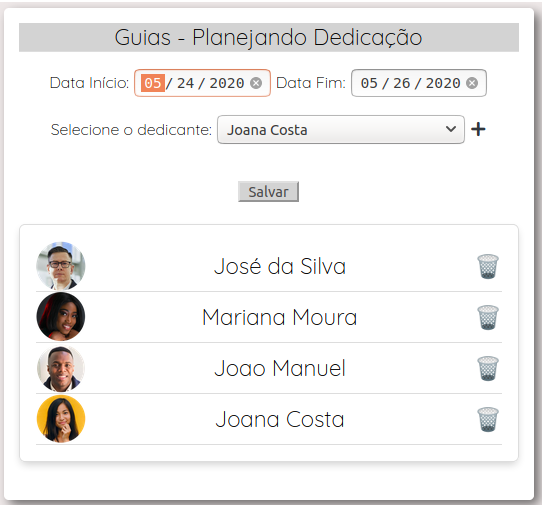
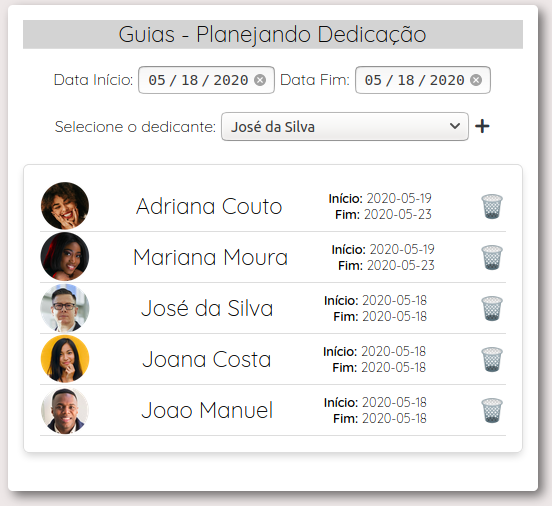
create write file method

diff --git a/public/planejando.js b/public/planejando.js
@@ -12,16 +12,18 @@ btnAdd.addEventListener('click',addDedicantes)
 
 
 function addDedicantes(){
+    /*
     const dadosDedicante = selDedicantes.value.split('|')
-
     const idDedicante = dadosDedicante[0]
     const nomeDedicante = dadosDedicante[1]
     const fotoDedicante = dadosDedicante[2]
     const regiaoDedicante = dadosDedicante[3]
+    */
 
+    const [codigo, nome, foto, regiao] = selDedicantes.value.split('|')
 
     const existInList = listaDedicantes.filter((item) => {
-        if (item.codigo == idDedicante) {
+        if (item.codigo == codigo) {
             return item
         }
     })
@@ -34,45 +36,71 @@ function addDedicantes(){
     }
     
     //fabricar dedicante
-    const dedicante = fabricarDedicante(idDedicante, nomeDedicante,fotoDedicante,txtStartDate.value,txtEndDate.value,regiaoDedicante)
+    let dataInicio = txtStartDate.value
+    let dataFim = txtEndDate.value
+    
+    //Gravando no arquivo via API
+    apiAddPlanning({codigo,nome,foto,dataInicio,dataFim,regiao})
 
+
+}
+    
+function addPlanning({codigo, nome, foto, dataInicio, dataFim, regiao}){
+    const dedicante = fabricarDedicante(codigo, nome,foto,dataInicio,dataFim,regiao)
+
+    //inserindo no Array de Dedicantes
     listaDedicantes.push(dedicante)
-
     console.log(listaDedicantes)
 
+ 
+
+    //Inserindo na página HTML
     const li = document.createElement('li')
     const imgFoto = new Image(50,50)
     const a = document.createElement('a')
     const span = document.createElement('span')
+    const divParent = document.createElement('div')
+    const divDates = document.createElement('div')
 
-    imgFoto.src = fotoDedicante
-    a.innerHTML = nomeDedicante
+    imgFoto.src = foto
+    a.innerHTML = nome
     span.innerHTML = `\u{1F5D1}`
-    span.id = idDedicante
-    
-    //span.addEventListener('click',deleteDedicante(10))
+    span.id = codigo
 
+    divDates.style = 'font-size: 0.8rem;text-align: right'
+    divDates.innerHTML = `<strong>Início:</strong> ${dataInicio} <br>`
+    divDates.innerHTML += `<strong>Fim:</strong> ${dataFim}`
+
+    divParent.appendChild(divDates) 
+    
     span.onclick = () => deleteDedicante(span)
 
     li.append(imgFoto)
     li.append(a)
+    li.append(divParent)
     li.append(span)
 
     ulGuias.appendChild(li)
 
-
-
-
 }
 
-async function loadAPI(){
+async function loadAPISelect(){
     const res = await fetch('http://localhost:5000').then((content) => content.json())
 
     res.guias.map((item)=>
         addItemInSelect(item))
 }
 
-loadAPI()
+loadAPISelect()
+
+async function loadAPIPlanning() {
+    const res = await fetch('http://localhost:3800').then((content) => content.json())
+
+    res.agendamentos.map((item) =>
+        addPlanning(item))
+}
+
+loadAPIPlanning()
 
 
 //inserir as pessoas no select
@@ -100,10 +128,26 @@ function deleteDedicante(element) {
     
     if(confirm('Você tem certeza que deseja excluir o dedicante?')){
         element.parentNode.remove()
+        
+        let codigo = element.id
+
+        apiDelPlanning({codigo})
 
         listaDedicantes = listaDedicantes.filter((item) => {
             if(!(item.codigo == element.id)) return item
         })
     }
         
+}
+
+async function apiAddPlanning({codigo, nome, foto, dataInicio, dataFim, regiao}){
+    const urlApi = new URL('http://localhost:3800')
+    urlApi.search = new URLSearchParams({codigo, nome, foto, dataInicio, dataFim, regiao }).toString()
+    await fetch(urlApi)
+}
+
+async function apiDelPlanning({codigo,nome, foto, dataInicio, dataFim, regiao}){
+    const urlApi = new URL('http://localhost:3800')
+    urlApi.search = new URLSearchParams({codigo,nome, foto, dataInicio, dataFim, del:1}).toString()
+    await fetch(urlApi)
 }

diff --git a/api/index.js b/api/index.js
@@ -1,9 +1,12 @@
 const http = require('http')
-//const URL = require('url')
-const content = require('./guias.json')
-//const path = require('path')
+const URL = require('url')
+const guias = require('./guias.json')
+const agendamento = require('./agendamentos.json')
+const path = require('path')
+const fs = require('fs')
 
-const portNumber = 5000
+const portNumberApi1 = 5000
+const portNumberApi2 = 3800
 
 http.createServer((req,res) => {
 
@@ -11,6 +14,48 @@ http.createServer((req,res) => {
         'Access-Control-Allow-Origin': '*'
     })
 
-    return res.end(JSON.stringify(content))
+    return res.end(JSON.stringify(guias))
 
-}).listen(portNumber,() => console.log(`Server Api is Running - Port: ${portNumber}`))
+}).listen(portNumberApi1,() => console.log(`Server Api Guias is Running - Port: ${portNumberApi1}`))
+
+
+http.createServer((req,res) => {
+    const { codigo, nome, foto, dataInicio, dataFim, regiao, del } = URL.parse(req.url,true).query
+    
+    res.writeHead(200,{
+        'Access-Control-Allow-Origin': '*'
+    })
+
+    //All Resources
+    if(!codigo || !nome)
+        return res.end(JSON.stringify(agendamento))
+
+    //Delete
+    if(del){
+        console.log(`delete dedicante: ${codigo}`)
+        agendamento.agendamentos = agendamento.agendamentos.filter(item => String(item.codigo) !== String(codigo))
+        
+        return writeFile((message) => {
+            res.end(message)
+        })
+    }
+
+    //Create
+    agendamento.agendamentos.push({codigo, nome, foto, dataInicio, dataFim, regiao})
+        console.log(`adding dedicante: ${codigo} - ${nome}`)
+        return writeFile((message) => res.end(message))
+
+}).listen(portNumberApi2,() => console.log(`Server Api Agendamento is Running - Port: ${portNumberApi2}`))
+
+
+function writeFile(newPlanning){
+    fs.writeFile(
+        path.join(__dirname,'agendamentos.json'),
+        JSON.stringify(agendamento,null,2),
+        err => {
+            if(err) throw err
+
+            newPlanning(JSON.stringify({message: 'ok'}))
+        }
+    )
+}

diff --git a/public/planejando.html b/public/planejando.html
@@ -19,12 +19,10 @@
             </p>
             <p>
                 Selecione o dedicante: 
-                <select name="dedicantesList" id="selDedicantes"></select>
+                <select name="dedicantesList" id="selDedicantes" aria-placeholder="Selecione o dedicante"></select>
                 <span id="btnAdd">Adicionar</span>
             </p>
             
-            <br>
-                <input type="button" value="Salvar" id="btnSave"></p>
         </div>
 
         <div id="resultPlanning">
